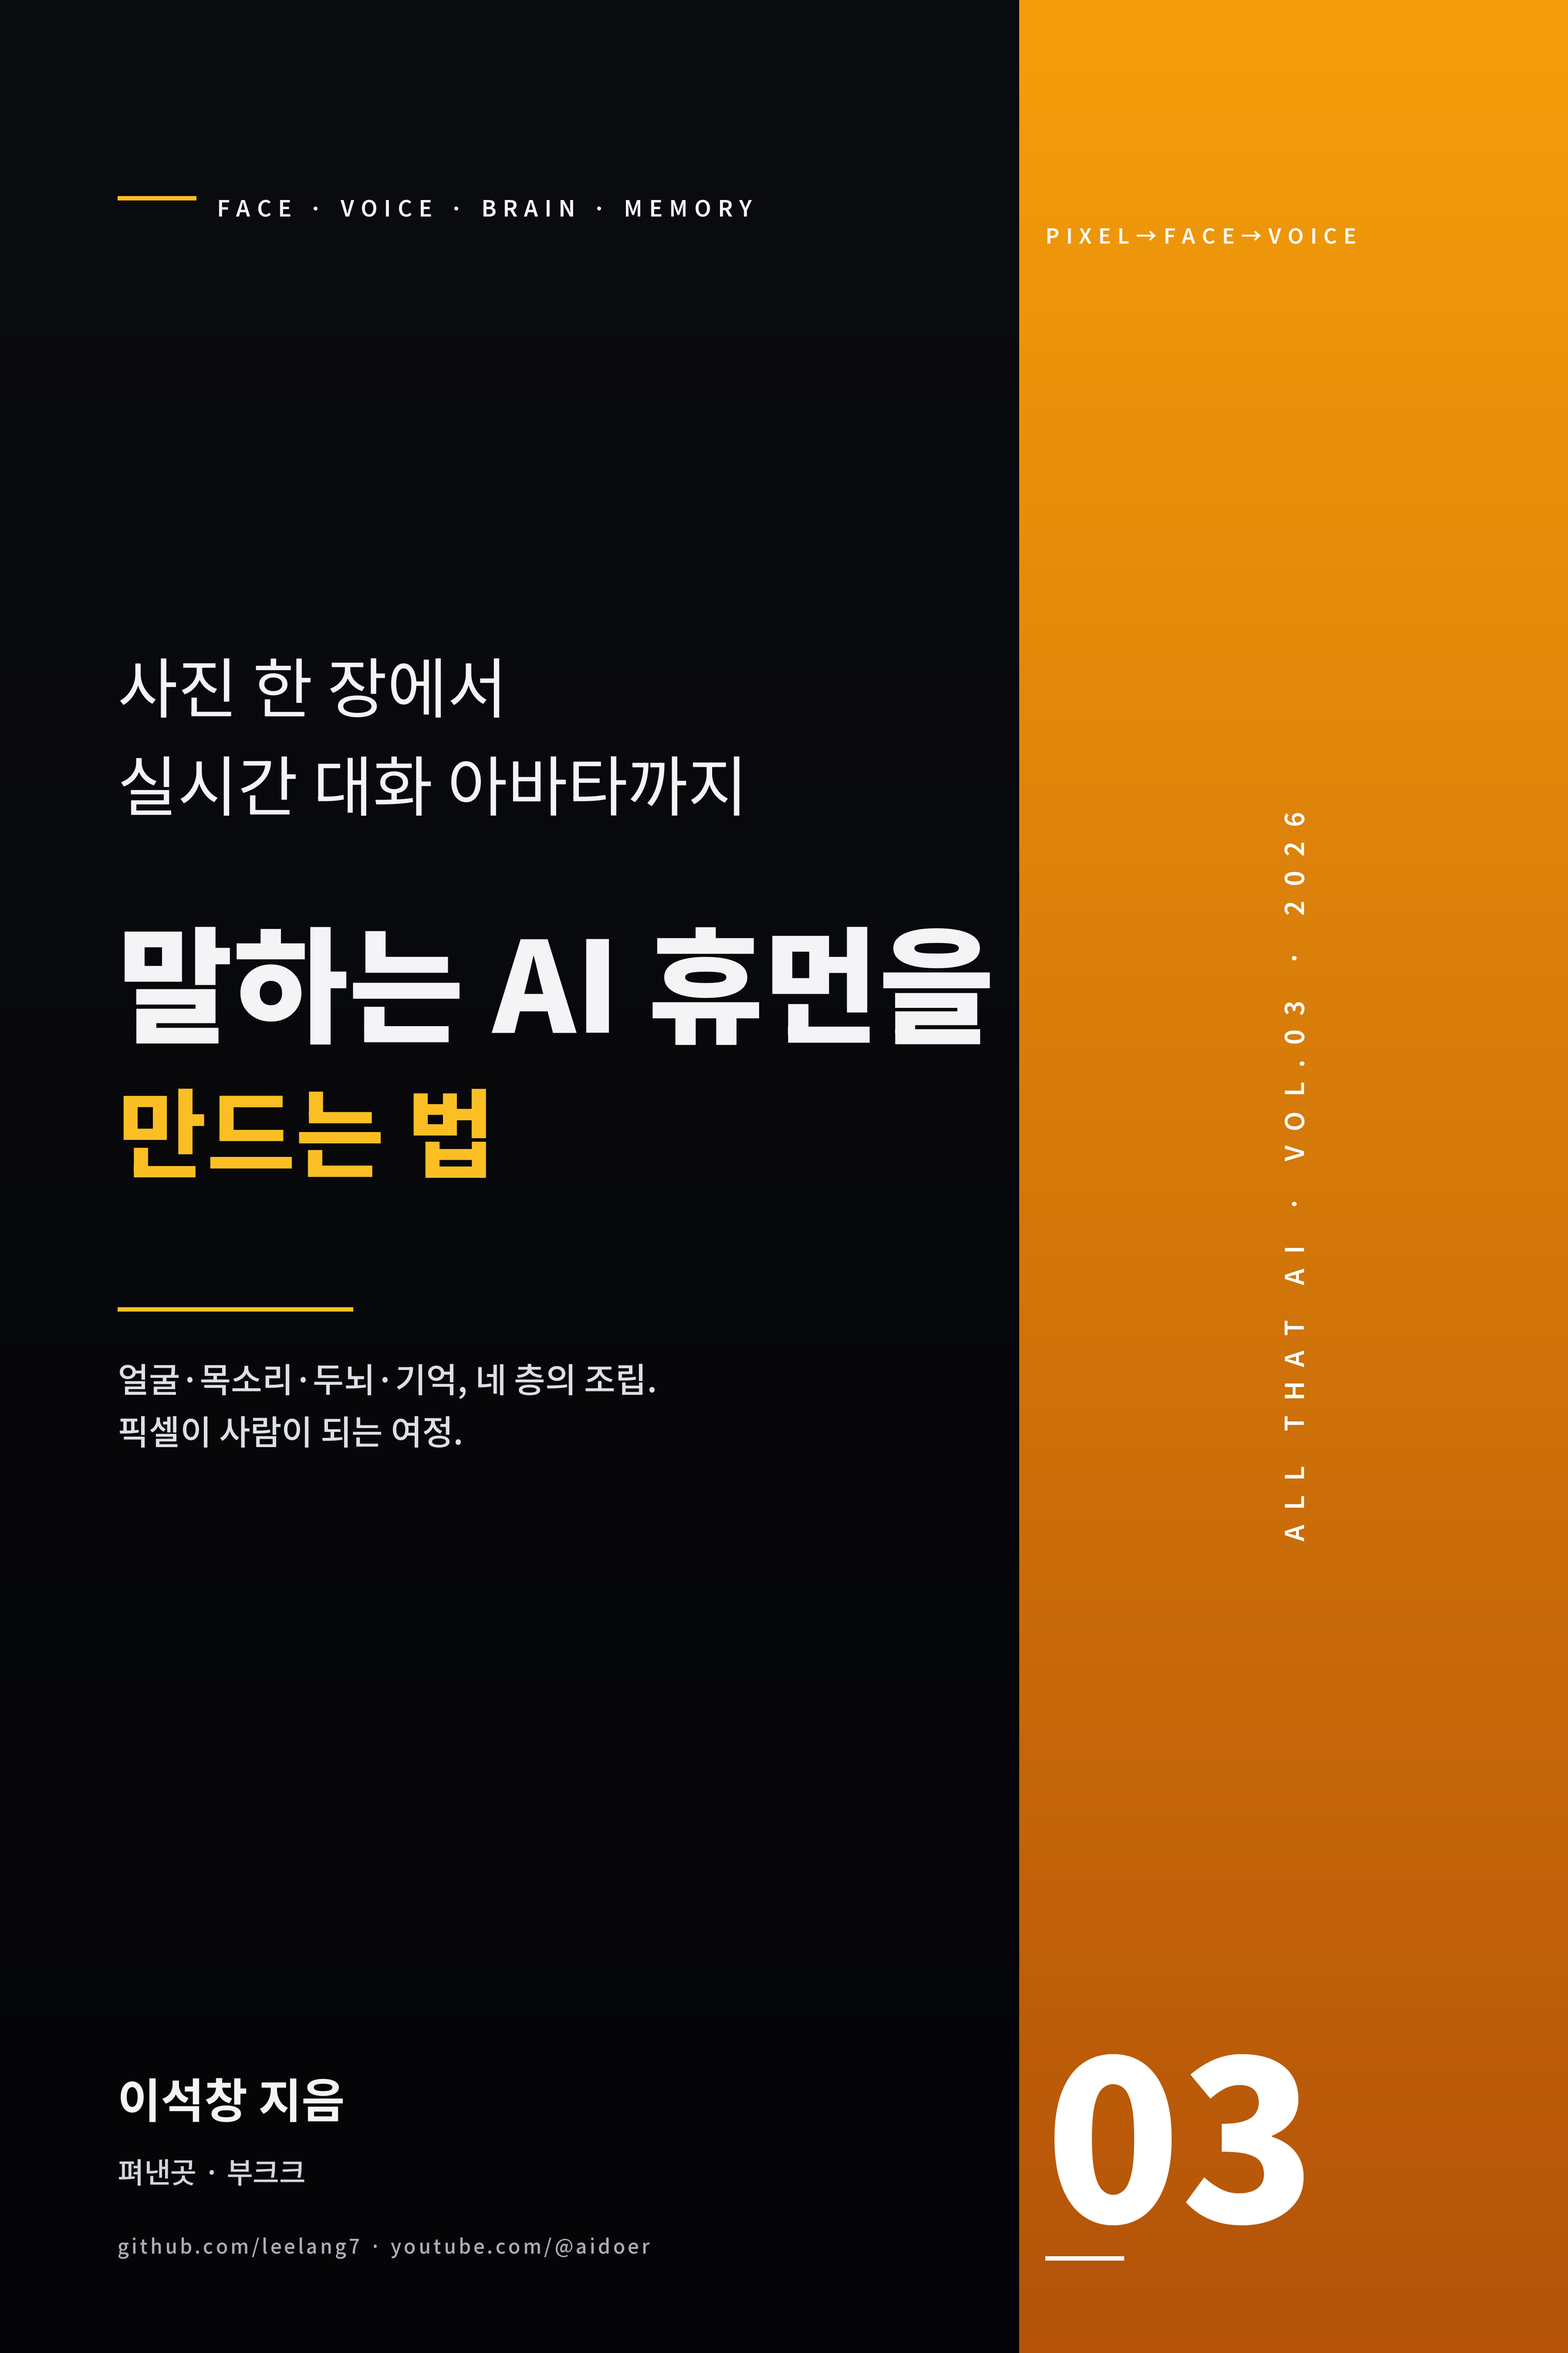
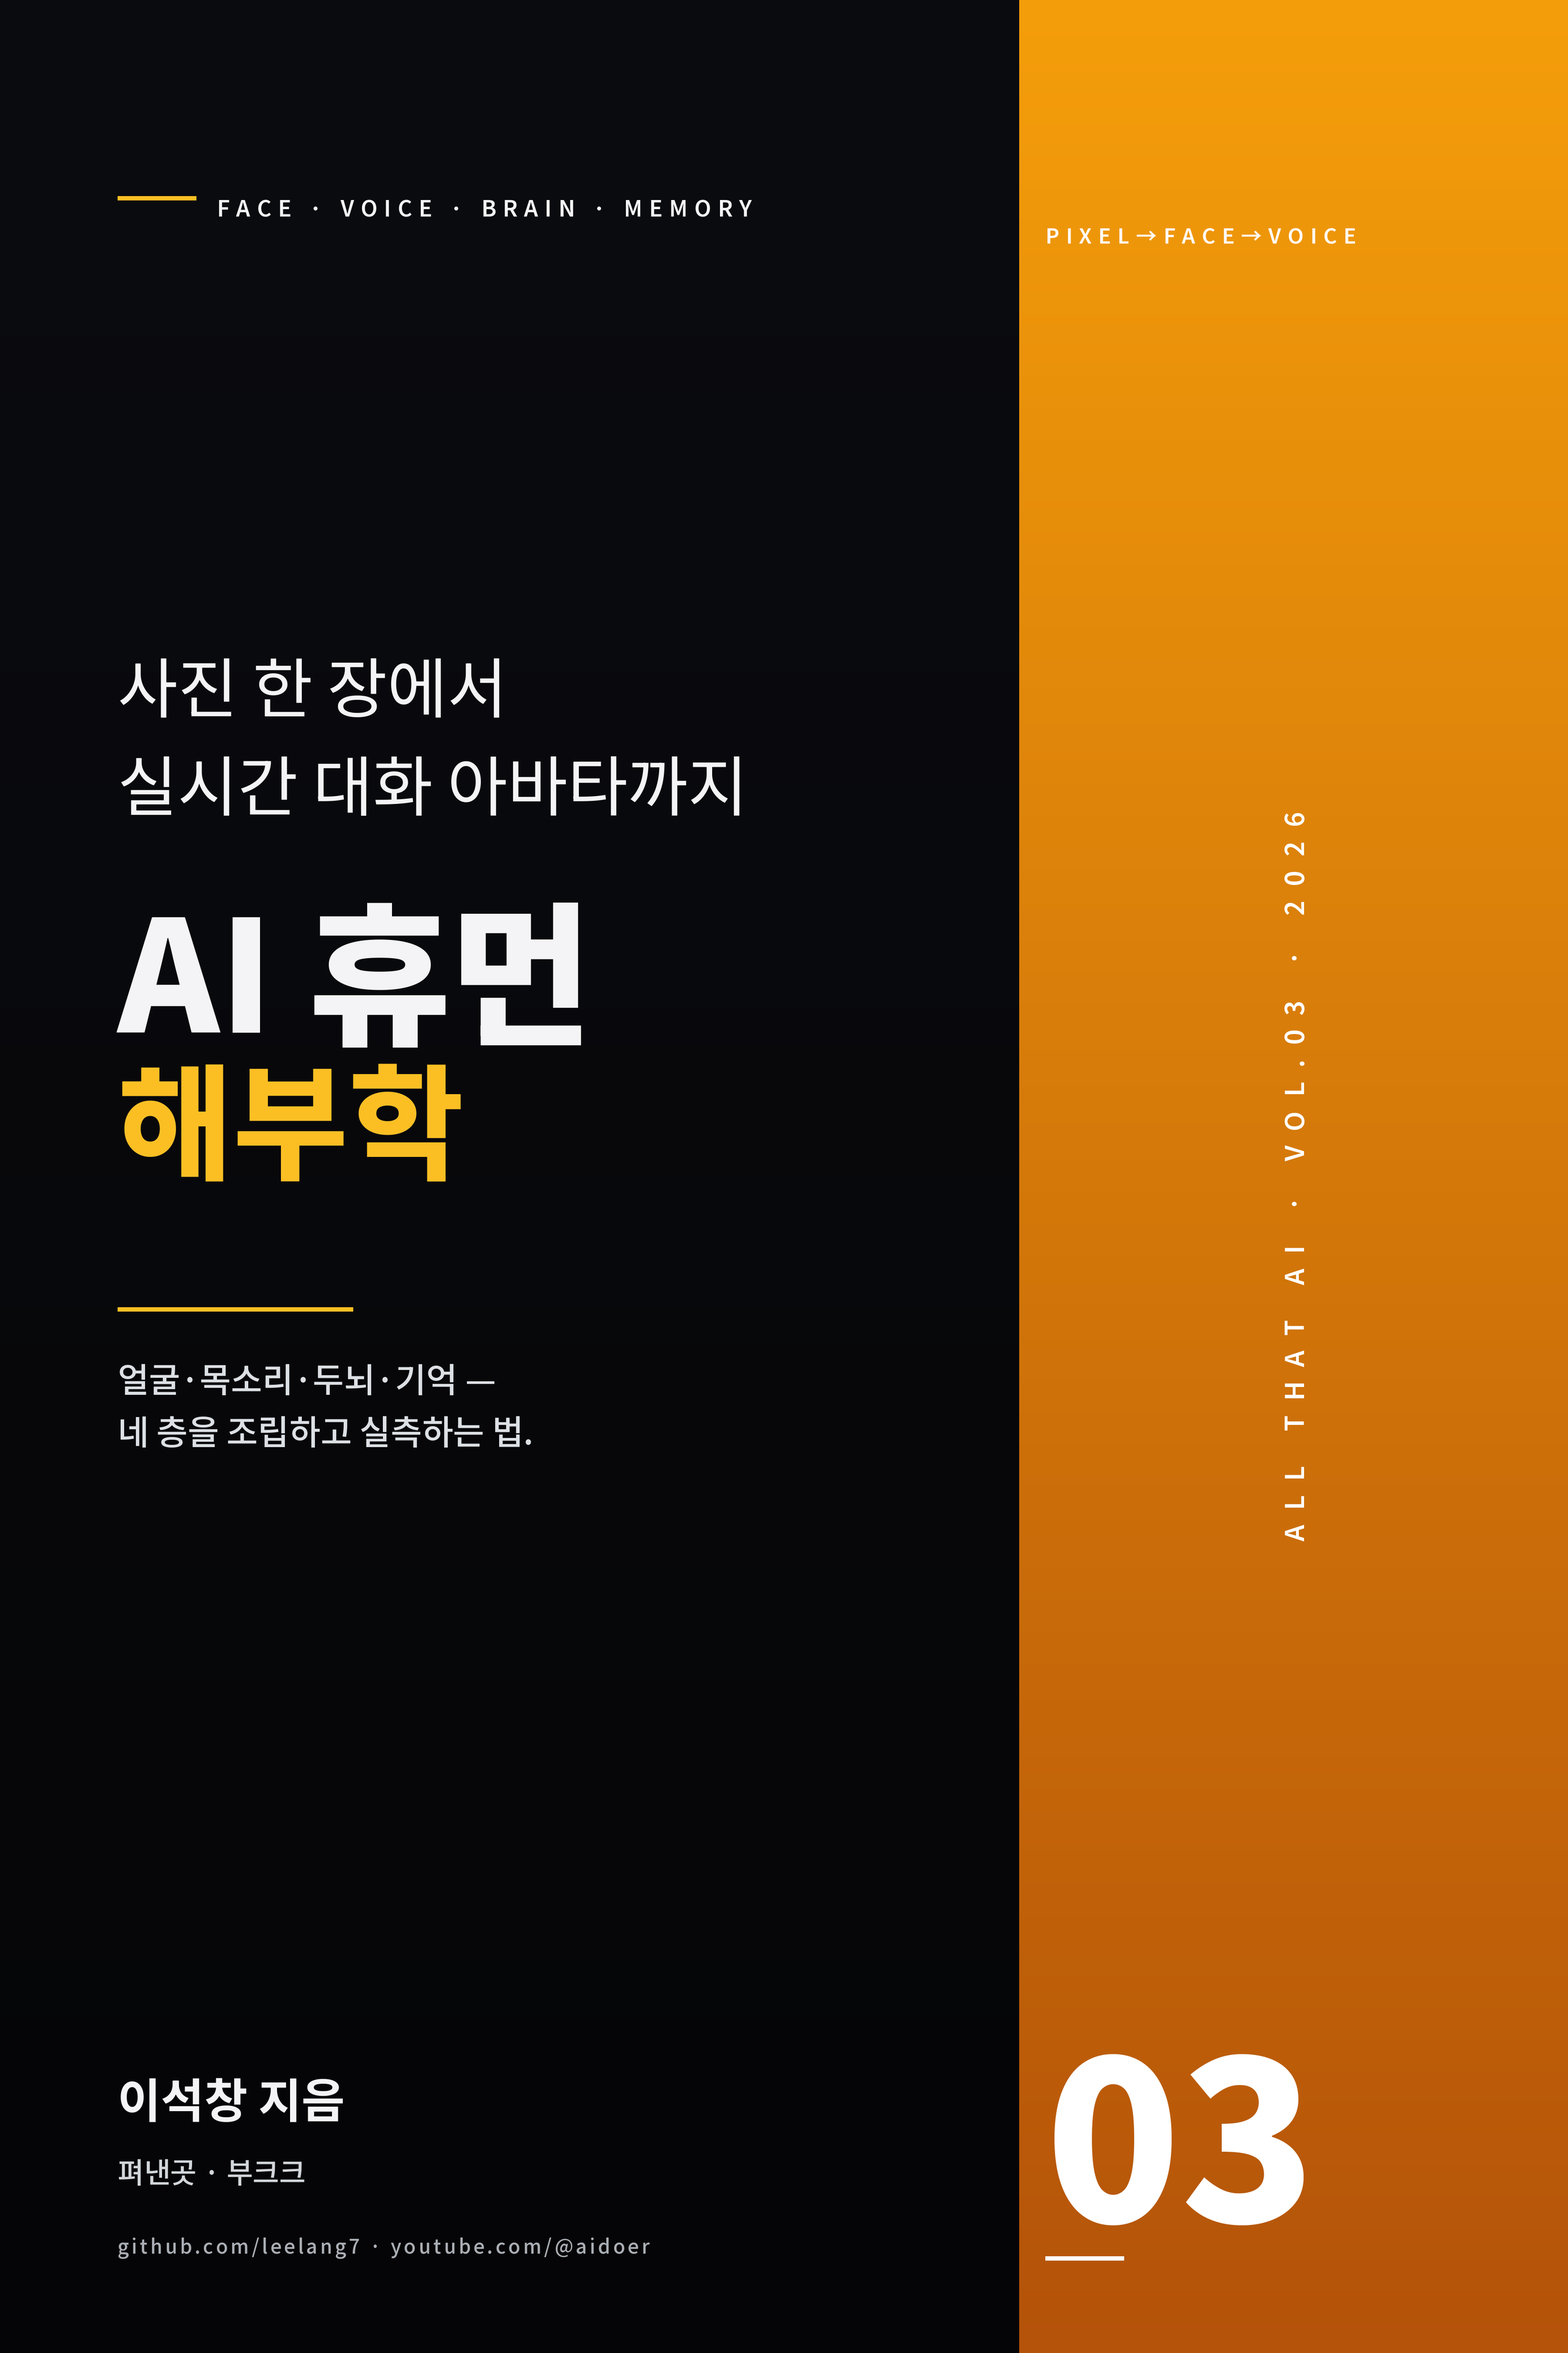
제목 확정 — 「AI 휴먼 해부학」
부제 "얼굴·목소리·두뇌·기억 — 네 층을 조립하고 실측하는 법".
판권·README·requirements·표지 빌더·표지 컨셉(해부도 Flow 프롬프트) 반영.
저장소 이름은 그대로 둔다.

Changed region(s): [[0.0625, 0.3733, 0.625, 0.4978], [0.0625, 0.56, 0.4062, 0.6222]]

diff --git a/scripts/build_cover_v03.py b/scripts/build_cover_v03.py
@@ -87,17 +87,17 @@ def main():
     # 좌측 메인 타이포
     d.text((90 * S, 545 * S), "사진 한 장에서", font=f(50, 400), fill=OFF, anchor="ls")
     d.text((90 * S, 620 * S), "실시간 대화 아바타까지", font=f(50, 400), fill=OFF, anchor="ls")
-    d.text((90 * S, 790 * S), "말하는 AI 휴먼을", font=f(96, 900), fill=OFF, anchor="ls")
-    d.text((90 * S, 895 * S), "만드는 법", font=f(74, 800), fill=ACC, anchor="ls")
+    d.text((90 * S, 790 * S), "AI 휴먼", font=f(118, 900), fill=OFF, anchor="ls")
+    d.text((90 * S, 895 * S), "해부학", font=f(96, 800), fill=ACC, anchor="ls")
 
     # 구분선
     d.rectangle((90 * S, 1000 * S, 270 * S, 1003 * S), fill=ACC)
     # 부제
-    d.text((90 * S, 1065 * S), "얼굴·목소리·두뇌·기억, 네 층의 조립.", f(26, 500),
+    d.text((90 * S, 1065 * S), "얼굴·목소리·두뇌·기억 —", f(26, 500),
            fill=(244, 244, 246), anchor="ls") if False else \
-        d.text((90 * S, 1065 * S), "얼굴·목소리·두뇌·기억, 네 층의 조립.",
+        d.text((90 * S, 1065 * S), "얼굴·목소리·두뇌·기억 —",
                font=f(26, 500), fill=(220, 224, 228), anchor="ls")
-    d.text((90 * S, 1105 * S), "픽셀이 사람이 되는 여정.",
+    d.text((90 * S, 1105 * S), "네 층을 조립하고 실측하는 법.",
            font=f(26, 500), fill=(220, 224, 228), anchor="ls")
 
     # 저자·출판사·푸터

diff --git a/scripts/build_book.py b/scripts/build_book.py
@@ -21,8 +21,8 @@ ROOT = os.path.dirname(os.path.dirname(os.path.abspath(__file__)))
 sys.path.insert(0, os.path.join(ROOT, "scripts"))
 from build_html import CSS, DRAFT, BUILD, chapters, md_to_html, _inline, _esc   # noqa: E402
 
-TITLE = "말하는 AI 휴먼을 만드는 법"
-SUB = "사진 한 장에서 실시간 대화 아바타까지<br>픽셀이 사람이 되는 여정"
+TITLE = "AI 휴먼 해부학"
+SUB = "얼굴·목소리·두뇌·기억 — 네 층을 조립하고 실측하는 법<br>사진 한 장에서 실시간 대화 아바타까지, 픽셀이 사람이 되는 여정"
 SERIES = "All That AI · Vol.03"
 AUTHOR = "이석창 (Seokchang Lee)"
 REPO = "github.com/leelang7/talking-ai-human-book"          # 공개 컴패니언 저장소 (2026-09-05)

diff --git a/scripts/build_html.py b/scripts/build_html.py
@@ -320,7 +320,7 @@ def main():
         print("  도판 %d개 복사" % len(os.listdir(dst_fig)))
     with open(a.out, "w", encoding="utf-8") as f:
         f.write("<!doctype html><html lang=ko><head><meta charset=utf-8>"
-                "<title>말하는 AI 휴먼을 만드는 법 — 조판 미리보기</title>"
+                "<title>AI 휴먼 해부학 — 조판 미리보기</title>"
                 "<style>%s</style></head><body>\n%s\n</body></html>"
                 % (CSS, "\n".join(pages)))
     print("\n  → %s\n" % a.out)

diff --git a/README.md b/README.md
@@ -1,9 +1,10 @@
-# 말하는 AI 휴먼을 만드는 법
+# AI 휴먼 해부학
 
-> 사진 한 장에서 실시간 대화 아바타까지. 픽셀이 사람이 되는 여정입니다.
+> 얼굴·목소리·두뇌·기억 — 네 층을 조립하고 실측하는 법.
+> 사진 한 장에서 실시간 대화 아바타까지, 픽셀이 사람이 되는 여정입니다.
 > **All That AI · Vol.03** · 이석창 (Seokchang Lee) 지음
 
-도서 *"말하는 AI 휴먼을 만드는 법"* 의 **공식 컴패니언 저장소** 입니다.
+도서 *"AI 휴먼 해부학"* 의 **공식 컴패니언 저장소** 입니다.
 책 본문은 포함되어 있지 않습니다 — 여기 있는 것은 **본문의 주장을 실제로 검증하는 코드** 입니다.
 
 ---
@@ -99,7 +100,7 @@ cp book.config.example.json book.config.json     # 열어서 여러분의 경로
 |---|---|---|
 | Vol.01 | 테슬라처럼 만드는 비전 자율주행과 피지컬 AI | 픽셀이 **핸들** 이 된다 |
 | Vol.02 | 우리집 AI 의사·수의사·헬스코치 | 픽셀이 **진단** 이 된다 |
-| **Vol.03** | **말하는 AI 휴먼을 만드는 법** | **픽셀이 사람이 된다** |
+| **Vol.03** | **AI 휴먼 해부학** | **픽셀이 사람이 된다** |
 
 Vol.01 컴패니언 : [physical-ai-book](https://github.com/leelang7/physical-ai-book)
 
